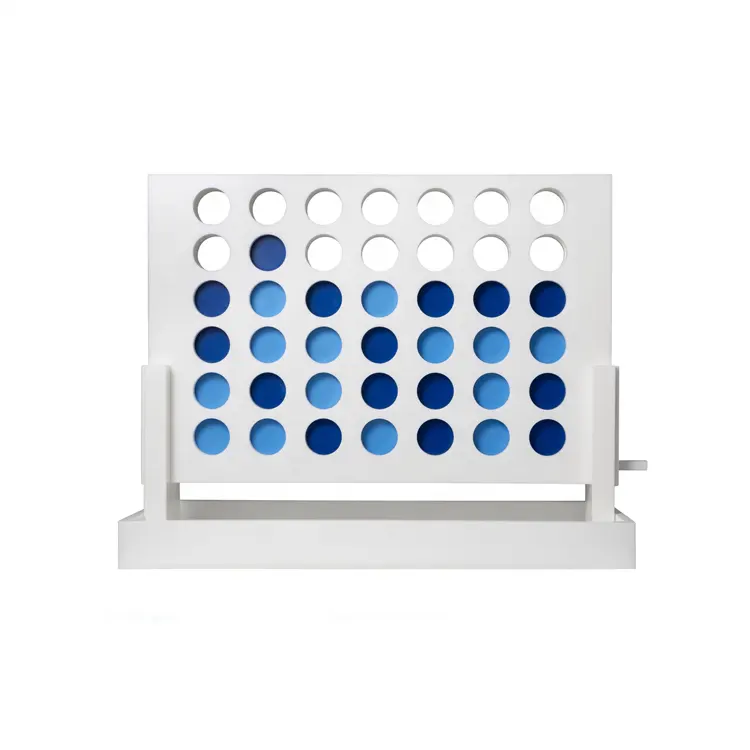
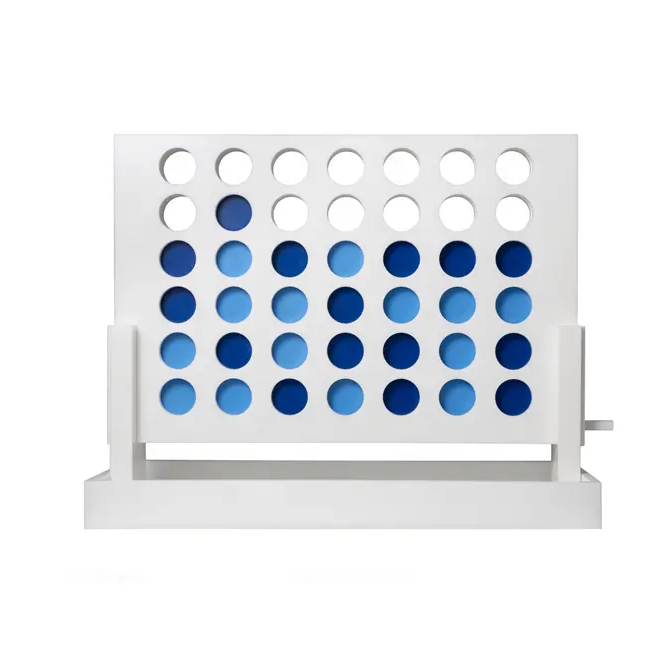
Changed main image and adjusted position of page elements.

Changed region(s): [[0.1214, 0.1821, 0.9408, 0.8194]]

diff --git a/style.css b/style.css
@@ -1,2 +1,85 @@
 /* INDEX PAGE */
 
+.landingPage {
+
+  
+    margin: auto;
+    border: hidden;
+    width: 75vw;
+    height: 85vh;
+    padding: 1em 10em 5em 10em;
+    display: flex;
+    flex-direction: column;
+    align-items: center;
+
+}
+
+#navBtn {
+
+    position: fixed;
+    
+
+}
+
+#gameTitle {
+
+    position: relative;
+    margin: 1rem auto;
+    background-color: rgb(29,180,200);
+    background-image: linear-gradient(0deg, rgba(29,147,200,1) 33%, rgba(21,68,208,1) 100%);
+    background-size: 100%;
+    background-repeat: repeat;
+    -webkit-background-clip: text;
+    -webkit-text-fill-color: transparent;
+    -moz-background-clip: text;
+    -moz-text-fill-color: transparent;
+    font-size: 3rem;
+    font-family: 'Cairo Play', sans-serif;
+    font-weight: bold;
+    font-size: 7em;
+    text-align: center;
+
+}
+
+#introImg {
+
+    position: relative;
+    border: 1px solid;
+    border-radius: 10%;
+    width: 40vw;
+    height: auto;
+    background-position: center;
+    background-size: cover;
+    border-color: transparent;
+    cursor: pointer;
+    border-width: 1em;
+    padding: 1em;
+    
+    
+
+}
+
+#playBtn {
+
+    position: relative;
+    width: 15em;
+    height: 3em;
+    background-color: #0000ff;
+    color: #fff;
+    border: none;
+    outline: none;
+    border-radius: 0.5em;
+    padding: 1em;
+    font-size: 1.2rem;
+    font-family: 'Josefin Sans', sans-serif;
+    font-weight: bold;
+    cursor: pointer;
+
+
+}
+
+
+
+
+
+

diff --git a/index.html b/index.html
@@ -3,6 +3,12 @@
 <head>
     <meta charset="UTF-8">
     <meta name="viewport" content="width=device-width, initial-scale=1.0">
+    <link rel="preconnect" href="https://fonts.googleapis.com">
+    <link rel="preconnect" href="https://fonts.gstatic.com" crossorigin>
+    <link href="https://fonts.googleapis.com/css2?family=Cairo+Play:wght@500;600&family=Josefin+Sans:wght@100&display=swap" rel="stylesheet">
+    <link rel="preconnect" href="https://fonts.googleapis.com">
+    <link rel="preconnect" href="https://fonts.gstatic.com" crossorigin>
+    <link href="https://fonts.googleapis.com/css2?family=Cairo+Play:wght@500;600&display=swap" rel="stylesheet">
     <link rel="stylesheet" href="style.css">
 
     <title>Connect Four</title>
@@ -10,20 +16,21 @@
 </head>
 <body>
 
-<div>
-    <button>info</button>
-    <button>max</button>
+<section>
+<div id="navBtn">
+    <button id="infBtn">info</button>
+    <button id="maxBtn">max</button>
 </div>
 
-<section>
-    
-    <h1>CONNECT 4</h1>
 
-    <div>
-        <img src="imgs/connectfourgame.png">
-    </div>
+<div class="landingPage">
 
-    <button>PLAY</button>
+    <h1 id="gameTitle">CONNECT 4</h1>
+
+    <img id="introImg" src="imgs/connectfour2.gif" alt="Connect Four Game"/>
+
+    <button id="playBtn">PLAY</button>
+</div>
 
 </section>
 
